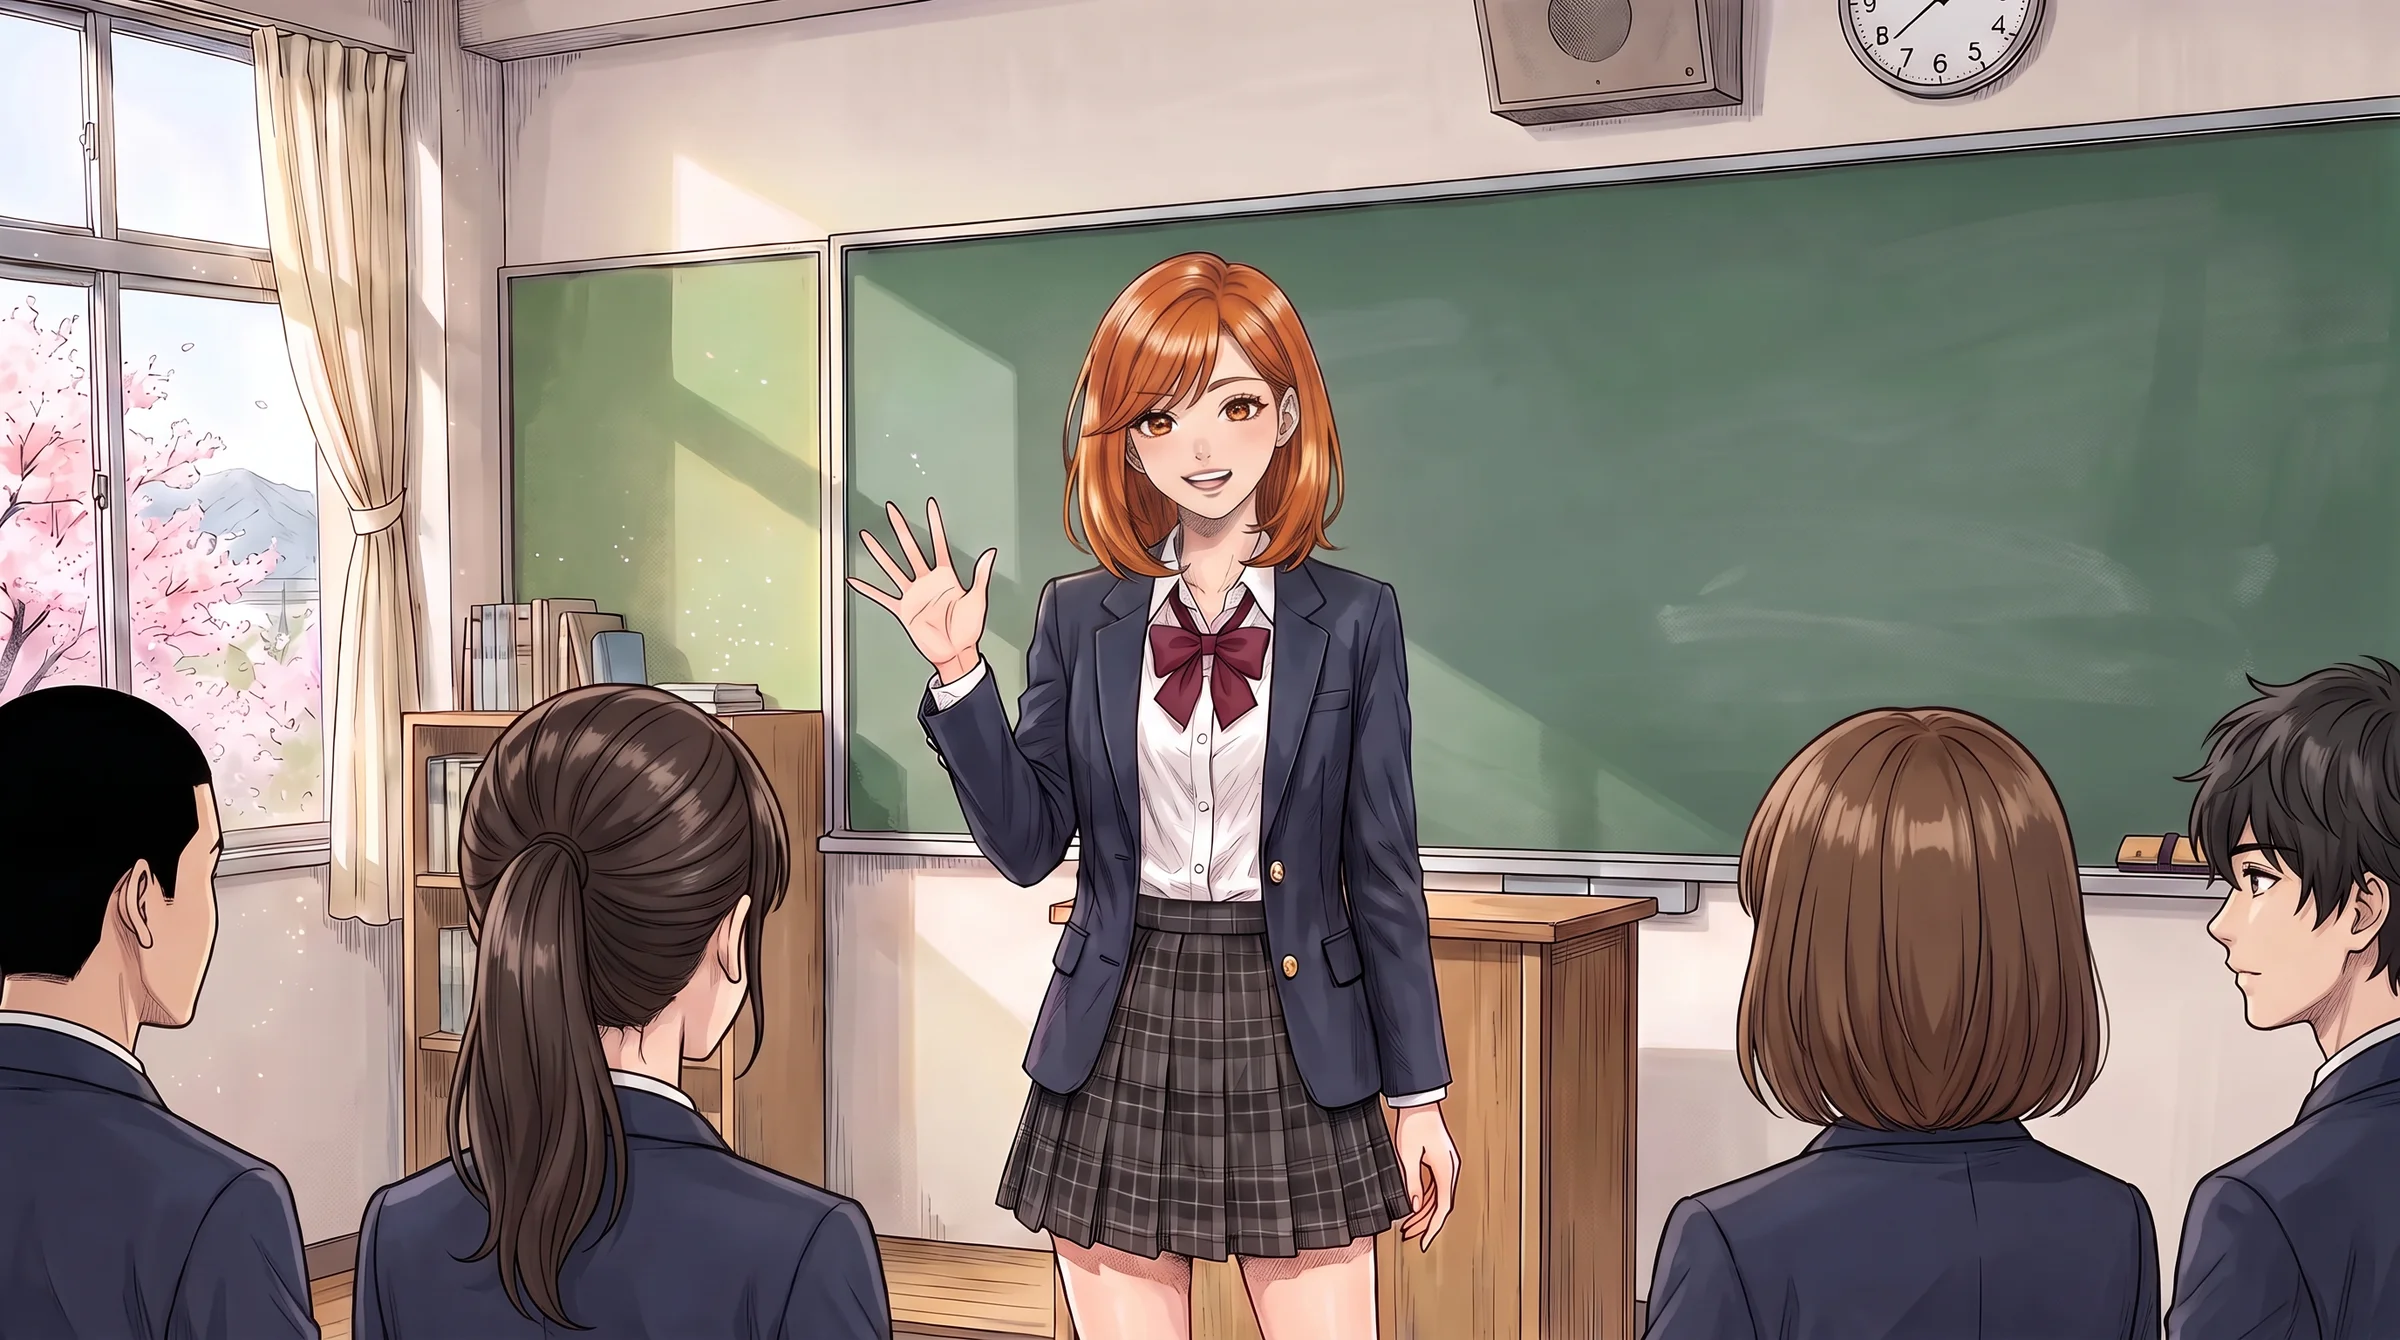
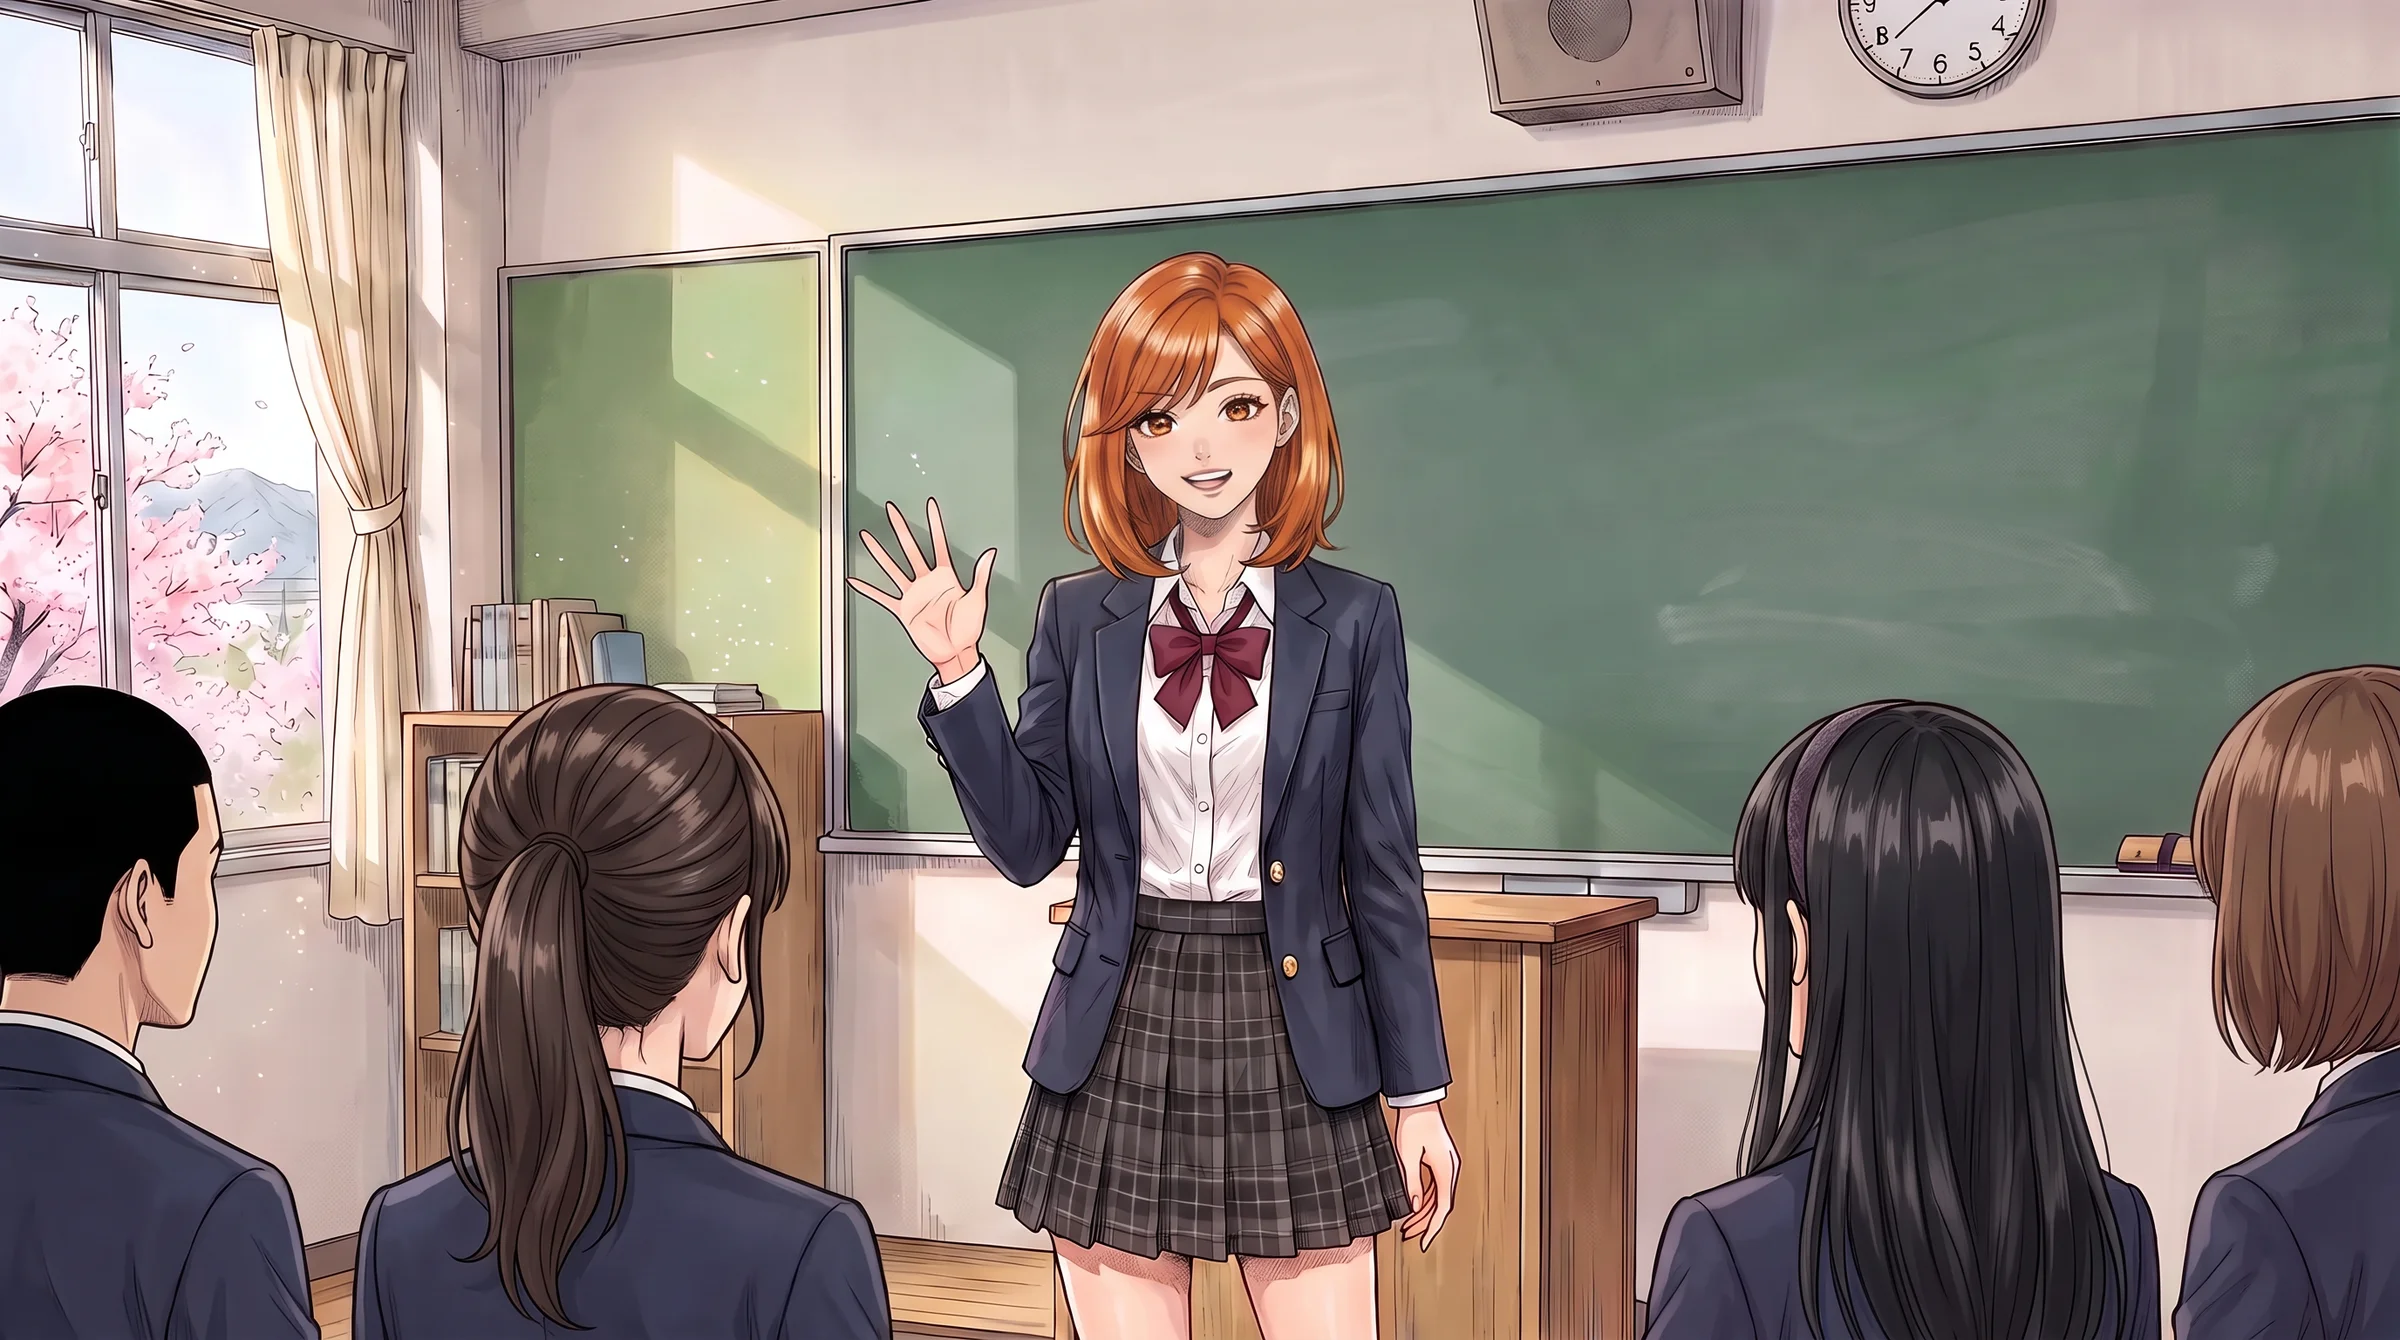
Ch1: cold read round 1 recorded and its text fixes applied; intro CG classmate and stronger falter
Claude-Session: https://claude.ai/code/session_01RwxJ99cbnypmrRJW8WLjFt

diff --git a/production/pilot-v2/reviews/ch1/cold-read-round1.md b/production/pilot-v2/reviews/ch1/cold-read-round1.md
@@ -1,0 +1,53 @@
+# Ch1 cold read, round 1 (§9 step 3e), Oct 18
+
+Three fresh readers (`review/cold-reader.md`: casual, manga reader, genre-savvy). Material: `reader_view.py` on `script/ch01.ozs` after the Japanese pass, split cold open + 1.1–1.2 | 1.3–1.4 | 1.5–1.6 | 1.7–1.8, with the seven CGs as JPGs. The readers' notes stay in the session scratchpad (not committed); their numbers and shared flags are below.
+
+## The three numbers at each checkpoint
+Ends up with / wants / dream woman (leading answer, %).
+
+| Reader | After 1.2 | After 1.4 | After 1.6 | After 1.8 (end) |
+|---|---|---|---|---|
+| 1 casual | Nanoha 45 / **Nanoha 70** / — | Natsuki 50 / Nanoha 60 / — | Natsuki 55 / Nanoha 60 / — | Nanoha 50 / Nanoha 65 / Natsuki 45 (Nanoha 35) |
+| 2 manga | Nanoha 55 / Nanoha 65 / — | Nanoha 50 / Nanoha 60 / — | Natsuki 50 / Nanoha 60 / — | Natsuki 50 / Nanoha 60 / Natsuki 50 (Nanoha 40) |
+| 3 genre | Nanoha 45 / **Nanoha 70** / — | Natsuki 50 / Nanoha 60 / — | Natsuki 55 / Nanoha 65 / — | Nanoha 50 / Nanoha 65 / Nanoha 50 (Natsuki 35) |
+
+## Against the target (Ch1–4 window; scene outline, Oct 18)
+- **Ending:** on target. It swings both ways and finishes at about 50-50; no one passes 55.
+- **Dream woman:** on target. It is divided, no one passes 50, and the average is about even (Natsuki 43, Nanoha 42). The readers split the clues the way the outline intends: the wrist and the callus point to Natsuki, while the scolding voice and "waited a very long time" point to Nanoha.
+- **Wanting:** over target. It leans Nanoha throughout: about 63 on average, and 60–65 at the end.
+- **The 70% rule:** two readers hit **70 for wanting Nanoha at the first checkpoint**, before Natsuki has appeared. That is structural: part 1 has only one girl in it.
+- **Not yet (outline):** respected. No reader settles what's in the mist, whether either girl remembers, how that life ended, or that it ended in winter.
+- **Know / Suspect:**
+  - All three read danger beyond the romance.
+  - All three read the dream as a past life with a lover or wife.
+  - All three tie the Ōzakura to the dream's tree (65–85%).
+  - All three see that Kōhei and Natsuki reacted to each other on sight.
+
+## Shared flags and what was done
+| Flag (readers) | Done |
+|---|---|
+| **Fukuda** reads as a reality glitch or an erased person (all 3). The dialogue rewrite had cut the explanation and made the next line ominous | Restored c1_0131 "She went looking for mine before her own." and c1_0132 "I don't know why that's the thing that sticks with me…" |
+| **The pale square on the wall** joins an "absence" pattern with Fukuda (all 3) | c1_0206 restored to "This school's nice. It feels… lived in. Does that make sense?" (its warmth is also what the overcorrection check said Natsuki had lost) |
+| Garbage day "Tuesdays and Fridays now" briefly read as another shift in reality (reader 3) | c1_0235: "Pickup moved to Tuesdays and Fridays in the fall." |
+| **"She counts on her fingers"**, but the CG shows a wave (all 3) | Cut c1_0142 |
+| **The falter CG doesn't read**: nearly identical to the base (all 3); her eyes don't land toward a window-side back-row seat (reader 3) | Art: a stronger falter, eyes turned toward the window side (see art notes) |
+| The boy in profile at the front right of the intro CG looks like Kōhei, on the wrong side of the room (readers 1 and 2) | Art: that classmate redrawn so he doesn't read as Kōhei |
+| **Collar CG:** no visible tiptoe or stretch; hands read at his tie; the petal on her braid isn't visible (all 3) | Waiting on the on-model check |
+| **Natsuki is the thinner heroine**; her lines read as a profile sheet or stock (all 3: the self-intro's horror-movie half, "met him somewhere before"; also "No way. So you're real childhood friends," the confession question) | c1_0145 gets texture ("the cheesier the better… a bad one"); c1_0172 is now a shorter poke ("She said you told all three… True?"); c1_0213 "No way. Real childhood friends? I thought those were made up." (a poke that sets up her "never stayed anywhere long enough"). "Met him somewhere before" is kept: it is Story-thread decision 3 |
+| "It's fine. I like being busy." is the stock overworked-hero line (all 3) | c1_0090: "It's fine. Sundays are short shifts." [P] (going practical, per his sheet) |
+| Natsuki "takes a train home?" (reader 3) | c1_0236: "back from walking Mizuno home, over by the station." |
+| Dream ending is heavy: "That someone was waiting… far too long" restates the three "She says it like…" lines (all 3) | **Not changed**: 1.8 is the author's keep-as-is scene. Reported |
+| The cold-open **mirror** is never echoed in the chapter (all 3) | **Not changed.** A faint echo (a mirror at a bend on their route) would be a new staging fact; it is offered to the Story thread |
+| No establishing image of the Ōzakura (reader 3) | Not in the Ch1 outline; noted for the Story thread |
+| Kōhei's dialogue is all short ripostes; he never says anything unguarded (reader 3) | By design (§3b); noted |
+
+## Lively, by all three
+- Nanoha's class-assignment conspiracy, through "That's what it says in the minutes."
+- "You thought it in a short-person direction."
+- Grandpa's "very convenient back."
+- The taiyaki thermodynamics.
+- "Big talk for someone who sits like he's being graded."
+- "I'm working up to it" / "I'm doing it anyway."
+- "Every day. For sixteen years."
+- The face catalogue.
+- Dad's handwriting on the whiteboard, which all three called the best line in the chapter.

diff --git a/production/pilot-v2/art/prompts.md b/production/pilot-v2/art/prompts.md
@@ -59,3 +59,10 @@ Made before the cold readers, not after the writing gates as §9 orders, because
 - `fal-ai/nano-banana-pro/edit`, 2K, 16:9. Refs: the Oct 17 master (`art/masters/cg_natsuki_intro.webp` at bbd4a10), `v2/img/ch/natsuki_school_smile.webp` (hair length). 2 takes; **picked seed 142** (hair ends at her shoulders, tucked behind her left ear; seed 141's still ran past the shoulders). Foreground now: a boy with a buzz cut, a girl with a ponytail, a girl with a bob, a boy in profile.
 - Prompt: "Edit image 1. Change ONLY two things. (1) The copper-haired girl's hair: cut it so it ends neatly at her shoulders, exactly the length and layered cut of the girl in image 2, glossy and neat with a side-swept fringe, and with the hair on one side tucked behind her ear so that ear shows. Her hair must not reach below her shoulders. (2) The four classmates in the foreground, seen from behind: make them four clearly different students in the same navy blazers: at the far left a boy with short cropped black hair; second from left a girl with dark brown hair in a ponytail; second from right a girl with a chin-length medium-brown bob; at the far right a boy with short messy dark hair, his head turned a little so his profile shows. Keep everything else exactly identical: the girl's face, eyes, smile, raised waving hand, pose, body, uniform and proportions, the classroom, the blackboard, the window with the cherry tree, the light, the framing, the art style and the colors. FULL NATURAL COLOR, absolutely not grayscale. No text."
 - **Falter:** the Oct 17 falter prompt (above) on the new base, 2 takes; **picked seed 151** (half smile, eyes wider; seed 152 lost the smile entirely and added a mole under one eye). Only the face kept: `production/pipeline/vn/face_composite.py BASE VARIANT OUT --center 0.503 0.318 --radius 0.042 0.082 --feather 16`; changed area measured at x 0.46–0.54, y 0.24–0.40 of the frame, so nothing else moves in the crossfade.
+
+### Round 2 after the cold read (Oct 18)
+All three readers said the falter didn't read (nearly identical to the base), and two took the boy in profile at the front right for Kōhei, on the wrong side of the room.
+- **Classmate:** `fal-ai/nano-banana-pro/edit`, 2K, 16:9, on the seed-142 base. 2 takes; **picked seed 161** (seed 162 drew a girl filling a third of the frame). Only the frame right of x 0.63 was kept (a 0.04-wide feathered ramp), so Natsuki and the left side are untouched; the change measures from x 0.646. Now, left to right: buzz cut, ponytail, a girl with long black hair and a headband, the bob.
+  - Prompt: "Edit image 1: change ONLY the student at the far right edge of the foreground (the dark-haired boy whose profile shows). Replace him with a girl seen completely from behind, in the same navy blazer, with long straight black hair worn down past her shoulders and a thin dark headband; her face is not visible at all. Keep everything else exactly identical: the copper-haired girl at the front (her face, hair, smile, raised waving hand, pose, uniform), the other three foreground students, the classroom, the blackboard, the window, the light, the framing, the art style and the colors. FULL NATURAL COLOR, absolutely not grayscale. No text."
+- **Falter, stronger:** on the seed-142 base (same face pixels as the new base). 2 takes; **picked seed 171** (the smile gone, lips parted, eyes wide and turned to the window side; seed 172 was close). Face composited as before (`--center 0.503 0.318 --radius 0.042 0.082 --feather 16`; change measured at x 0.46–0.54, y 0.24–0.40).
+  - Prompt: "Edit image 1: change ONLY the copper-haired girl's face. Her bright smile freezes and falls away for a moment: the smile gone, lips slightly parted, eyes wide and fixed, and her eyes turned toward the left side of the picture, toward the windows and the back rows of the room, as if she has just seen someone she almost recognizes. Startled and very still, not frightened, no tears, no blush. Keep everything else exactly identical: her hair, her raised waving hand, her pose, her uniform, the classmates, the room, the light, the framing, the art style and the colors."

diff --git a/production/pilot-v2/ledger.md b/production/pilot-v2/ledger.md
@@ -23,5 +23,6 @@ Rates checked Oct 17: NB2 edit $0.08/image, NB Pro edit $0.15/image, bria cutout
 | 10-17 | Sixth check: collar CG head-size edit (NB Pro 2K) | 1 | $0.15 |
 | 10-18 | Ch1 revision, cold open: 3 CGs (NB Pro 2K ×2 each) and the mist living still (Kling v3 Pro, 4 s) | 7 | $1.46 |
 | 10-18 | Ch1 revision, fixes: dream CG inside-wrist edit (NB Pro 2K ×2) and a new dream living still (4 s); intro CG hair and classmates (NB Pro 2K ×2) and its falter face (NB Pro 2K ×2) | 7 | $1.46 |
+| 10-18 | After the cold read: intro CG classmate (NB Pro 2K ×2) and a stronger falter (NB Pro 2K ×2) | 4 | $0.60 |
 
-**Total after Ch1: about $8.50 of $40.** Ch1 revision (Oct 18) so far: about $2.92; running total about $11.42.
+**Total after Ch1: about $8.50 of $40.** Ch1 revision (Oct 18) so far: about $3.52; running total about $12.02.
